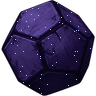
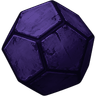
fix(darkheart): picture dice in roll title and empty state, Fear d12 without glitter dots, centred die inputs (PD-112)

diff --git a/css/darkheart.css b/css/darkheart.css
@@ -154,6 +154,7 @@ body[data-route="darkheart"] .catalog-bar-wrap { display: none; }
 .dh-card[hidden] { display: none; }
 .dh-card--slim { padding-block: var(--s-3); }
 .dh-panel-title { display: flex; align-items: center; gap: var(--s-2); flex-wrap: wrap; margin: 0 0 var(--s-3); font-family: var(--font-display); font-weight: 400; font-size: var(--fs-md); line-height: var(--lh-md); letter-spacing: var(--tracking-display); color: var(--parchment); }
+.dh-title-die { display: block; flex: none; width: var(--s-7); height: var(--s-7); object-fit: contain; }
 .dh-panel-title svg { width: var(--icon-md); height: var(--icon-md); color: var(--hope-soft); flex: none; }
 .dh-field { display: grid; gap: var(--s-2); }
 .dh-field + .dh-field { margin-top: var(--s-3); }
@@ -185,6 +186,8 @@ body[data-route="darkheart"] .catalog-bar-wrap { display: none; }
 .dh-die-face img { display: block; width: var(--s-8); height: var(--s-8); object-fit: contain; }
 .dh-die-face--modifier img { width: calc(var(--s-8) + var(--s-2)); height: calc(var(--s-8) + var(--s-2)); margin: calc(var(--s-1) * -1); }   /* the d6 picture has more padding than the d12s: same visual size */
 .dh-input { width: 100%; height: var(--h-tap); padding: 0 var(--s-3); box-sizing: border-box; background: var(--ink-raised); color: var(--parchment); border: 1px solid var(--line); border-radius: var(--r-sm); font-family: var(--font-mono); font-size: var(--fs-lg); text-align: center; }
+.dh-input { -moz-appearance: textfield; appearance: textfield; }   /* no spin buttons: they reserved room on the right and pushed the digits off-centre */
+.dh-input::-webkit-inner-spin-button, .dh-input::-webkit-outer-spin-button { -webkit-appearance: none; margin: 0; }
 .dh-input:hover:not(:disabled) { border-color: var(--line-strong); }
 .dh-input:focus { border-color: var(--hope); }
 .dh-input:disabled { opacity: var(--opacity-disabled); cursor: not-allowed; }
@@ -332,7 +335,8 @@ body[data-route="darkheart"] .catalog-bar-wrap { display: none; }
 .dh-empty, .dh-nomatch { display: grid; gap: var(--s-2); justify-items: start; padding: var(--s-4); border: 1px dashed var(--line); border-radius: var(--r-sm); color: var(--parchment-dim); }
 .dh-empty { justify-items: center; text-align: center; padding: var(--s-8) var(--s-4); }
 .dh-empty p { margin: 0; }
-.dh-empty-mark svg { width: var(--s-8); height: var(--s-8); color: var(--line-strong); }
+.dh-empty-mark { display: flex; align-items: center; justify-content: center; gap: var(--s-3); }
+.dh-empty-mark img { display: block; width: var(--s-9); height: var(--s-9); object-fit: contain; opacity: 0.85; }
 .dh-nomatch p { margin: 0; }
 .dh-nomatch { border-color: var(--line-strong); }
 

diff --git a/js/darkheart-view.js b/js/darkheart-view.js
@@ -662,7 +662,7 @@ const DarkheartView = (function () {
     if (!outcome) {
       if (s.phase === 'bastion') { setRegion('scene', bastionSceneHtml(s)); return; }
       const msg = s.phase === 'retreat' ? 'dh_scene_retreat' : 'dh_scene_waiting';
-      setRegion('scene', `<div class="dh-empty"><div class="dh-empty-mark" aria-hidden="true">${I.dice}</div><p>${esc(t(msg))}</p></div>`);
+      setRegion('scene', `<div class="dh-empty"><div class="dh-empty-mark" aria-hidden="true"><img src="${DIE_ICON.hope}" alt="" width="48" height="48" draggable="false"><img src="${DIE_ICON.fear}" alt="" width="48" height="48" draggable="false"><img src="${DIE_ICON.modifier}" alt="" width="48" height="48" draggable="false"></div><p>${esc(t(msg))}</p></div>`);
       return;
     }
     if (data.status === 'loading') { setRegion('scene', `${ruleBlock(outcome)}<p class="dh-hint" role="status">${esc(t('dh_scenes_loading'))}</p>`); return; }
@@ -1192,7 +1192,7 @@ const DarkheartView = (function () {
         <div class="dh-layout">
           <aside class="dh-side">
             <section class="dh-card dh-roll" aria-labelledby="dh-roll-h">
-              <h3 id="dh-roll-h" class="dh-panel-title">${I.dice}<span id="dh-roll-title">${esc(t('dh_wayfinder'))}</span></h3>
+              <h3 id="dh-roll-h" class="dh-panel-title"><img class="dh-title-die" src="${DIE_ICON.hope}" alt="" width="28" height="28" draggable="false"><span id="dh-roll-title">${esc(t('dh_wayfinder'))}</span></h3>
               <div id="dh-roll"></div>
             </section>
             <section id="dh-campaign" class="dh-card dh-campaign" aria-label="${esc(t('dh_campaign_label'))}"></section>

diff --git a/docs/product-decisions.md b/docs/product-decisions.md
@@ -1926,4 +1926,6 @@ Where: `js/darkheart-expedition.js`, `js/darkheart-view.js`, `js/safe-storage.js
 
 5. Trapped (FD 30): the roll panel says the party is trapped (`dh_roll_trapped`) instead of asking for dice that are disabled, and "Next traversal" is disabled; a rest that lowers no Forest Difficulty reads "unchanged", never "−0".
 
+6. The wireframe die is gone from the roll panel's title (the gold d12 instead) and from the empty scene state (the three dice, Hope / Fear / Modifier); the Fear d12 has no glitter (the sparkles read as stray blue dots at 40px); the die inputs hide their spin buttons so the digits are centred. The wireframe stays on the Next-traversal and Start-expedition buttons, where a coloured picture would fight the gold fill.
+
 Where: `js/darkheart-view.js`, `css/darkheart.css`, `data/i18n.json`, `img/ui/`, `tests/darkheart-art.test.js`.
